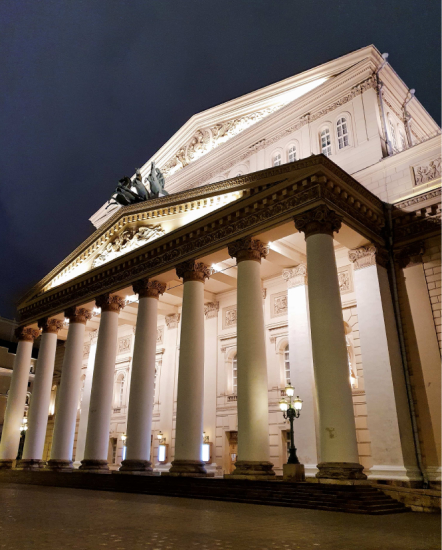
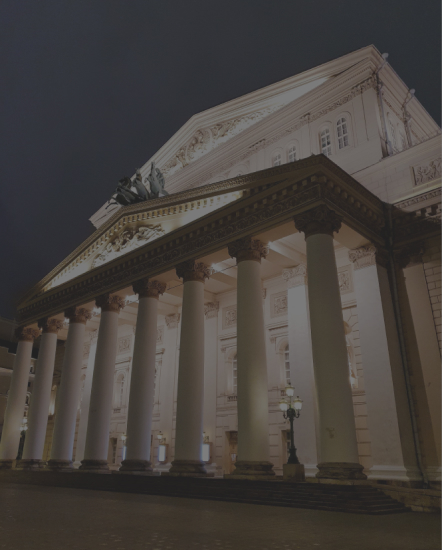
finish 4th block

diff --git a/style.css b/style.css
@@ -215,64 +215,24 @@ h3 {
 
 .first__performance{
     background:url(/img/Rectangle\ 15.jpg);
-    position: relative;
 }
-.first__performance:after {
-    content: '';
-    position: absolute;
-    top: 0;
-    left: 0;
-    right: 0;
-    bottom: 0;
-    background: rgba(0,0,0,.5);
-    z-index: 2;
-  }
+
 
 .second__performance {
     background-image:url(/img/projects__item--active.jpg);
-    position: relative;
 }
-.second__performance:after {
-    content: '';
-    position: absolute;
-    top: 0;
-    left: 0;
-    right: 0;
-    bottom: 0;
-    background: rgba(0,0,0,.5);
-    z-index: 2;
-  }
+
 
 .third__performance {
     background-image: url(/img/Rectangle\ 16.jpg);
-    position: relative;
 }
-.third__performance:after {
-    content: '';
-    position: absolute;
-    top: 0;
-    left: 0;
-    right: 0;
-    bottom: 0;
-    background: rgba(0,0,0,.5);
-    z-index: 2;
-  }
+
 
 
 .forth__performance{
-    background-image: url(/img/Rectangle\ 17.png);
-    position: relative;
+    background-image: url(/img/Rectangle\ 17.jpg);
 }
-.forth__performance:after {
-    content: '';
-    position: absolute;
-    top: 0;
-    left: 0;
-    right: 0;
-    bottom: 0;
-    background: rgba(0,0,0,.5);
-    z-index: 2;
-  }
+
 
 .name__performance{
     position: relative;
@@ -300,4 +260,96 @@ h3 {
     justify-self: start; 
     align-self: center;
     grid-area: date__performance;
+}
+
+.container_4 {
+    width: 1110px;
+    height: 700px;
+    padding-top: 150px;
+    display: block;
+    margin-left: auto;
+    margin-right: auto;
+}
+
+.grades {
+    margin-left: auto;
+    margin-right: auto;
+    height: 539px;
+    width: 1000px;
+    background-image:url(/img/Rectangle\ 28.jpg);
+    display: grid; 
+    grid-template-columns: 430px 570px; 
+    grid-template-rows: 1fr; 
+    gap: 0px 0px; 
+    grid-template-areas: 
+    "years description";
+}
+
+.years {
+    display: grid; 
+    grid-template-columns: 1fr; 
+    grid-template-rows: 1fr 100px 1fr; 
+    gap: 0px 0px; 
+    grid-template-areas: 
+      "Y_2018"
+      "Y_2019"
+      "Y_2020"; 
+    grid-area: years;
+  }
+.grades__years{
+    font-family: 'Open Sans Condensed', sans-serif;
+    font-size: 72px;
+    font-weight: 700;
+    line-height: 98px;
+}
+
+  .Y_2018 {
+    justify-self: center; 
+    align-self: end; 
+    grid-area: Y_2018; 
+  }
+  .Y_2019 {
+    justify-self: center; 
+    align-self: stretch; 
+    grid-area: Y_2019; 
+  }
+  .Y_2020 {
+    justify-self: center; 
+    align-self: start; 
+    grid-area: Y_2020; 
+  }
+  .description {
+    display: grid; 
+    grid-template-columns: 1fr; 
+    grid-template-rows: 190px 349px; 
+    gap: 0px 0px; 
+    grid-template-areas: 
+      "description__stars"
+      "description__title"; 
+    grid-area: description; 
+  }
+  .description__title {
+    justify-self: stretch; 
+    align-self: start; 
+    grid-area: description__title; 
+  }
+  .description__stars {
+    justify-self: start; 
+    align-self: end; 
+    grid-area: description__stars; 
+  }
+
+.fas {
+    padding-right: 20px;
+}
+
+.description__title{
+    padding-top: 30px;
+}
+
+.description__title__text{
+    font-family: 'Open Sans', sans-serif;
+    font-size: 36px;
+    font-weight: 700;
+    line-height: 54px;
 }

diff --git a/index.html b/index.html
@@ -4,7 +4,7 @@
     <meta charset="UTF-8">
     <meta http-equiv="X-UA-Compatible" content="IE=edge">
     <meta name="viewport" content="width=device-width, initial-scale=1.0">
-    <title>Document</title>
+    <title>Bolshoi Theater</title>
     <link href='style.css' rel="stylesheet">
     <link rel="preconnect" href="https://fonts.googleapis.com">
     <link rel="preconnect" href="https://fonts.gstatic.com" crossorigin>
@@ -101,6 +101,30 @@
             </div>
         </div>
     </div>
+    <div class = 'container_4'>
+        <div class="grades">
+            <div class = 'years'>
+                <span class="Y_2018 gold grades__years">2018</span>
+                <span class="Y_2019 gold grades__years">2019</span>
+                <span class="Y_2020 gold grades__years">2020</span>
+            </div>
+            <div class = 'description'>
+                <div class="description__stars">
+                    <i class="fas fa-star gold fa-2x"></i>
+                    <i class="fas fa-star gold fa-2x"></i>
+                    <i class="fas fa-star gold fa-2x"></i>
+                    <i class="fas fa-star gold fa-2x"></i>
+                    <i class="fas fa-star gold fa-2x"></i>
+                </div>
+                <div class = 'description__title'>
+                    <h4 class="description__title__text">Лучший театр<br>
+                        по мнению театральных<br>
+                        критиков Парижа</h4>
+                </div>  
+            </div>  
+        </div>
+    </div>
+    <script src="https://kit.fontawesome.com/67a4a7201f.js" crossorigin="anonymous"></script>
     <script src='js/script.js'></script>
 </body>
 </html>
